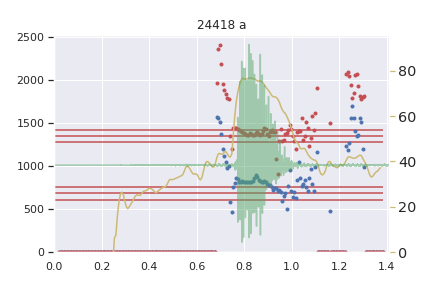
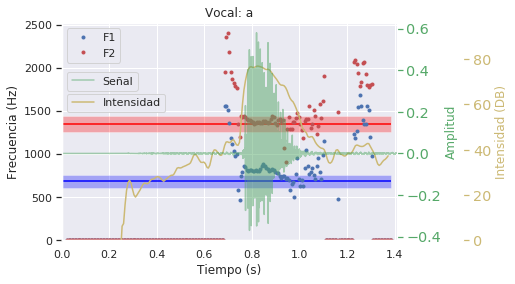
more results

diff --git a/chapters/04_segmentacion.tex b/chapters/04_segmentacion.tex
@@ -53,14 +53,21 @@ Para la evaluación de de este modelo se usa el indicador WER, del inglés Word 
     WER = \frac{S + E + I}{N}
 \end{equation}
 
+Calculando el WER para la anotación ingénua se obtiene el siguiente resultado
+
+
+\begin{equation}
+    WER_{ingenuo} = 89.58
+\end{equation}
 \section{Alineación basada en duración de fonemas}
 
-\textcolor{red}{CORREGIR}
-
-El problema con esta aproximación consisten en que las pausas no necesariamente corresponden siempre a un símbolo de puntuación, pues en caso de oraciones largas, el locutor debe respirar, y en oraciones muy cortas, el locutor omite la pausa para dar continuidad a la lectura.
+El problema con la alineación ingénua consiste en que las pausas no necesariamente corresponden siempre a un símbolo de puntuación, pues en caso de oraciones largas, el locutor debe respirar, y en oraciones muy cortas, el locutor omite la pausa para dar continuidad a la lectura.
 
 Resaltando que existe igualmente un orden secuencial entre ambos segmentos, la aproximación basada en la duración de fonemas utiliza la duración promedio de fonemas extraída del corpus fonético de experimentación y reportada en la tabla \ref{tab:duracion_promedio_fonemas}. Con esta información y transformando las letras de cada token a su correspondiente fonema, se obtiene una duración estimada de cada token, la cual puede ser usada para alinear con mayor precisión.
 
+\begin{equation}
+    WER_{duracion fonemas} = ??
+\end{equation}
 
 \input{tablas/04_02_duracion_promedio_fonemas}
 
@@ -88,11 +95,15 @@ También se realizó una observación de las vocales calculando sus formantes ba
 
 \input{tablas/04_04_formantes_observados}
 
-A partir de esta información se realizaron experimentos buscando la precisión en la identificación de las vocales. Para ello se tomó la norma L1 \cite{manhatattan_distance} de los dos primeros formantes, definiendo rango de aceptación, entre los 50Hz y 500Hz; y utilizando la desviación estándar de cada vocal como rango de aceptación. Adicionalmente a esto, se entrenó un algoritmo de agrupación no supervizado, K-means, inicializando los centroides en los formantes observados en el corpus de experimentación fonética. Los resultados se reportan en la tabla \ref{tab:resultados_vocales}
+A partir de esta información de la tabla \ref{tab:formantes_observador} se realizaron experimentos buscando la precisión en la identificación de las vocales. Para ello se tomó la norma L1 \cite{manhatattan_distance} de los dos primeros formantes, definiendo rango de aceptación, entre los 50Hz y 500Hz; y utilizando la desviación estándar de cada vocal como rango de aceptación. Adicionalmente a esto, se entrenó un algoritmo de agrupación no supervizado, K-means, inicializando los centroides en los formantes observados en el corpus de experimentación fonética.
+
+Estos experimentos se pusieron a prueba en todo el corpus de experimentación fonética, de donde se extrajeron los segmentos correspondientes a vocales y se evaluó la precisión de cada aproximación.
+
+Los resultados se reportan en la tabla \ref{tab:resultados_vocales}.
 
 \input{tablas/04_05_segmentación_vocalica}
 
-Para entender los bajos resultados presentados por la aproximación basada en los formantes observados y su desviación (55.73\% de precisión), se realizó un análisis visual sobre grabaciones con las vocales que se extrajeron del Open Speech Corpus. Se graficó simultaneamente la onda, los formantes F1 y F2 donde la intensidad superaba los 60 decibeles, es decir, $I > 60 dB$, y los formantes F1 y F2 promedio y sus desviaciones observados en el corpus. Las figuras \ref{img:formantes_a} y \ref{img:formantes_e}  muestran un ejemplo de dicho análisis. Los puntos indican los formantes calculados, en rojo F2 y en azúl F1, en verde la señal, en amarillo la intensidad y en rojo los valores observados para los formantes esperados y su desvuación.
+Para entender los bajos resultados presentados por la aproximación basada en los formantes observados y su desviación (50.36\% de precisión), se realizó un análisis visual sobre grabaciones con las vocales que se extrajeron del Open Speech Corpus. Se graficó simultaneamente la onda, los formantes F1 y F2 donde la intensidad superaba los 60 decibeles, es decir, $I > 60 dB$, y los formantes F1 y F2 promedio y sus desviaciones observados en el corpus. Las figuras \ref{img:formantes_a}, \ref{img:formantes_e}, \ref{img:formantes_i}, \ref{img:formantes_o} y \ref{img:formantes_u} muestran un ejemplo de dicho análisis. Los puntos indican los formantes calculados, F1 en azul y F2 en rojo, las líneas azul y roja representan los valores promedios para los formantes 1 y 2 respectivamente, con una franja del mismo color y en leve transparencia representando los rangos aceptados para cada formante considerando la desviación estándar, en verde la señal, en amarillo la intensidad.
 
 % (Y explicar las lineas rojas, amarilla, verde. Recomiendo que los formantes observados sean graficados con la desviaci\'on st\'andar en transparencia. Tambi\'en, los dos formantes observados deber\'ian tener color distinto entre ellos y posiblemente en la misma escala de los calculados.)
 %\ref{img:formantes_a} y e en la figura \ref{img:formantes_e}
@@ -113,8 +124,44 @@ Para entender los bajos resultados presentados por la aproximación basada en lo
 \includegraphics[width=\textwidth]{imagenes/04_02_e.png}
 \end{figure}
 
+\begin{figure}[H]
+\caption{Formantes de vocal I}
+\label{img:formantes_i}
+\includegraphics[width=\textwidth]{imagenes/04_02_i.png}
+\end{figure}
+
+\begin{figure}[H]
+\caption{Formantes de vocal O}
+\label{img:formantes_o}
+\includegraphics[width=\textwidth]{imagenes/04_02_o.png}
+\end{figure}
+
+\begin{figure}[H]
+\caption{Formantes de vocal U}
+\label{img:formantes_u}
+\includegraphics[width=\textwidth]{imagenes/04_02_u.png}
+\end{figure}
+
 % Esto debería estar arriba.
 % En ambas figuras se muestra en verde la onda, en azul el formante 1 en rojo el formante dos, en amarillo la intensidad cuyo valor se encuentra en el eje derecho y en rojo y azul claro los rangos esperados siendo la línea centra el formante observado promedio y las lineas adyacentes los valores de sumar y restar la desviación estándar.
 
-En la figura \ref{img:formantes_a} se observa que F2 representado por los puntos rojos está en los rangos esperados y que el F1 está cerca de los rangos esperados. En la figura \ref{img:formantes_e} se aprecia sobre la gráfica del a señal, que hay ruido de fondo, pues en los segmentos iniciales y los valores de amplitud se alejan del cero. Para esta grabación F1 se encuentra en los rangos de aceptación, pero F2 se aleja significativamente \cite{Abdel-Hamid2012}.
+En las gráficas se observa que en los rangos donde hay mas energía, los formantes se estabilizan cerca de ciertos valores, sin embargo no siempre el valor de estabilización corresponde a los rangos cercanos al formante promedio más o menos su desviación estándar.
 
+Considerando que en los valores de los formantes y su rango de aceptación no genera los resultados esperados, se realizan experimentos con árboles de decisión.
+
+Para estos experimentos, se tomaron los mismos valores de los formantes y la intensidad usando también valores de los formantes 3, 4 y 5, que enriquecen la información acústica extraída de las grabaciones.
+
+Los conjuntos de entrenamiento y pruebas se extrajeron del corpus de experimentación fonética, realizando una partición de 90\% para entrenamiento y 10\% para pruebas. Se realizó una segmentación por ventanas de tiempo de 60ms y se contó la cantidad de ventanas por cada fonema y sobre estos valores se realizó la partición.
+
+Como los árboles de decisión son sensibles a la cantidad de grupos a clasificar, se realizaron experimentos transformando la anotación fonética de cada grabación. Las transformaciones usadas se muestran en la tabla \ref{tab:transformacion_fonetica_arboles}
+
+\input{tablas/04_06_transformacion_fonetica}
+
+Los resultados a los experimento se muestran a continuación en la tabla \ref{tab:resultados_arboles}
+
+\input{tablas/04_07_resultados_arboles}
+
+
+\begin{equation}
+    WER_{informacion acustica} = ??
+\end{equation}

diff --git a/tablas/04_06_transformacion_fonetica.tex b/tablas/04_06_transformacion_fonetica.tex
@@ -1,0 +1,32 @@
+\begin{table}[H]
+\centering
+\caption{Distribución fonética}
+\label{tab:transformacion_fonetica_arboles}
+\begin{tabular}{|l|l|l|l|l|}
+\hline
+\textbf{Fonema} & \multicolumn{1}{|p{2.5cm}|}{\textbf{Vocales / No Vocales}} &  \multicolumn{1}{|p{3cm}|}{\textbf{Consonantes sonoras / No sonoras}} &  \multicolumn{1}{|p{2.4cm}|}{\textbf{Tipos de articulación}} & \multicolumn{1}{|p{2.4cm}|}{\textbf{Vocales Extremas}} \\\hline
+a   & a         & a          & a           & a         \\ \hline
+o   & o         & o          & o           & no\_vocal \\ \hline
+e   & e         & e          & e           & no\_vocal \\ \hline
+n   & no\_vocal & sonora     & nasal       & no\_vocal \\ \hline
+i   & i         & i          & i           & i         \\ \hline
+l   & no\_vocal & sonora     & aproximante & no\_vocal \\ \hline
+s   & no\_vocal & sonora     & fricativa   & no\_vocal \\ \hline
+t   & no\_vocal & no\_sonora & plosiva     & no\_vocal \\ \hline
+d   & no\_vocal & no\_sonora & plosiva     & no\_vocal \\ \hline
+R   & no\_vocal & sonora     & vibrante    & no\_vocal \\ \hline
+b   & no\_vocal & no\_sonora & plosiva     & no\_vocal \\ \hline
+r   & no\_vocal & no\_sonora & plosiva     & no\_vocal \\ \hline
+p   & no\_vocal & no\_sonora & plosiva     & no\_vocal \\ \hline
+j   & no\_vocal & sonora     & aproximante & no\_vocal \\ \hline
+u   & u         & u          & u           & u         \\ \hline
+m   & no\_vocal & sonora     & nasal       & no\_vocal \\ \hline
+k   & no\_vocal & no\_sonora & plosiva     & no\_vocal \\ \hline
+g   & no\_vocal & sonora     & plosiva     & no\_vocal \\ \hline
+f   & no\_vocal & sonora     & fricativa   & no\_vocal \\ \hline
+y   & no\_vocal & sonora     & fricativa   & no\_vocal \\ \hline
+C   & no\_vocal & sonora     & fricativa   & no\_vocal \\ \hline
+N   & no\_vocal & sonora     & nasal       & no\_vocal \\ \hline
+S   & no\_vocal & sonora     & fricativa   & no\_vocal \\ \hline
+\end{tabular}
+\end{table}

diff --git a/tablas/04_05_segmentación_vocalica.tex b/tablas/04_05_segmentación_vocalica.tex
@@ -2,16 +2,17 @@
 \centering
 \caption{Precisión identificación vocálica}
 \label{tab:resultados_vocales}
-\begin{tabular}{|l|l|l|}
-Aproximación & Precisión \\ \hline
-Teórica mas 50 Hz & 55.73 \\ \hline
-Teórica mas 100 Hz & 78.13 \\ \hline
-Teórica mas 200 Hz & 74.90 \\ \hline
-Teórica mas 300 Hz & 53.84 \\ \hline
-Teórica mas 400 Hz & 45.33 \\ \hline
-Teórica mas 500 Hz & 39.63 \\ \hline
-Observados mas desviación & 55.73 \\ \hline
-K-means mas 100 & 59.74 \\ \hline
+\begin{tabular}{|l|l|l|l|l|}
+\hline
+Aproximación              & Precisión & Recall & F1 Score \\ \hline
+Teórica mas 50 Hz         & 44.36     & 45.51  & 44.93    \\ \hline
+Teórica mas 100 Hz        & 46.29     & 47.49  & 46.88    \\ \hline
+Teórica mas 200 Hz        & \textbf{50.36}     & 51.66  & 51.00    \\ \hline
+Teórica mas 300 Hz        & 47.71     & 48.95  & 48.32    \\ \hline
+Teórica mas 400 Hz        & 40.75     & 41.80  & 41.27    \\ \hline
+Teórica mas 500 Hz        & 36.81     & 37.76  & 37.28    \\ \hline
+Observados mas desviación & 41.76     & 42.84  & 42.29    \\ \hline
+K-means mas 200           & 45.86     & 47.05  & 4645     \\ \hline
 \end{tabular}
 
 \end{table}

diff --git a/tablas/03_06_mexbet.tex b/tablas/03_06_mexbet.tex
@@ -3,7 +3,8 @@
 \caption{Mexbet}
 \label{tab:mexbet}
 \begin{tabular}{|l|l|l|l|l|l|l|}
-\textbf{Consonantes}         & \textbf{Labiales}     & \textbf{Labiodentales} & \textbf{Dentales}     & \textbf{Alveolares}    & \textbf{Palatales}    & \textbf{Alveolares}  \\ \hline
+\hline
+\textbf{Consonantes}         & \textbf{Labial}     & \textbf{Labio dental} & \textbf{Dental}     & \textbf{Alveolar}    & \textbf{Palatal}    & \textbf{Velar}  \\ \hline
 Oclusivos Sordos             & p (p)&       & t (t)&       &       & k (k)\\ \hline
 Oclusivos Sonoros            & b (b)&       & d (d)&       &       & g (g)\\ \hline
 Africado Sordo               &      &       &      &       & tS (t\textipa{S}) &     \\ \hline

diff --git a/tablas/04_07_resultados_arboles.tex b/tablas/04_07_resultados_arboles.tex
@@ -1,0 +1,16 @@
+\begin{table}[H]
+\centering
+\caption{Distribución fonética}
+\label{tab:resultados_arboles}
+\begin{tabular}{|l|l|l|l|}
+\hline
+Aproximación                     & Precisión & Recall & F1 Score \\ \hline
+Todos los fonemas                & 42.34     & 42.34  & 42.34    \\ \hline
+Tipos de articulación            & 50.76     & 52.30  & 52.30    \\ \hline
+Consonantes sonoras / No sonoras & 62.86     & 62.86  & 62.86    \\ \hline
+Vocales \ No Vocales             & 69.62     & 69.62  & 69.62    \\ \hline
+Vocales extremas                 & 81.21     & 81.21  & 81.21    \\ \hline
+
+
+\end{tabular}
+\end{table}

diff --git a/tablas/04_01_resultados_segmentacion_silencio.tex b/tablas/04_01_resultados_segmentacion_silencio.tex
@@ -4,10 +4,11 @@
 % \caption{Speech English Corpus}
 \label{tab:resultados_segmentacion_silencios}
 \begin{tabular}{|l|l|}
-\textbf{Unbral} & \textbf{Precisión} \\ \hline
-Fijo 30\%  & 57.01\% \\  \hline
-Fija 15\% & 83.26\% \\  \hline
-Fija 5\% & 69.05\% \\  \hline
-Dinámico  & 74.53\% \\  \hline
+\hline
+\textbf{Umbral} & \textbf{Precisión}  \\ \hline
+Fijo 30\%       & 57.01\%             \\  \hline
+Fija 15\%       & 83.26\%             \\  \hline
+Fija 5\%        & 69.05\%             \\  \hline
+Dinámico        & 74.53\%             \\  \hline
 \end{tabular}
 \end{table}

diff --git a/tablas/04_02_duracion_promedio_fonemas.tex b/tablas/04_02_duracion_promedio_fonemas.tex
@@ -3,6 +3,7 @@
 \caption{Distribución fonética}
 \label{tab:duracion_promedio_fonemas}
 \begin{tabular}{|l|l|l|}
+\hline
 \textbf{Fonema} &\multicolumn{1}{|p{2.2cm}|}{\textbf{Duración promedio}} & \multicolumn{1}{|p{2.2cm}|}{\textbf{Desviación estándar}} \\ \hline
 sil & 0.6619 & 0.3700 \\ \hline
 a   & 0.1421 & 0.0566 \\ \hline

diff --git a/tablas/04_04_formantes_observados.tex b/tablas/04_04_formantes_observados.tex
@@ -3,6 +3,7 @@
 \caption{Formantes teóricos para vocales del español}
 \label{tab:formantes_observador}
 \begin{tabular}{|l|l|l|l|l|}
+\hline
 \textbf{Vocal} & \textbf{f1} & \textbf{f2} & \textbf{std f1} & \textbf{std f2} \\ \hline
 a   & 682.84 & 1347.66 & 73.77 & 93.04 \\ \hline
 e   & 494.84 & 1619.97 & 55.49 & 132.84\\ \hline

diff --git a/tablas/04_03_formantes_vocales_teoricas.tex b/tablas/04_03_formantes_vocales_teoricas.tex
@@ -3,6 +3,7 @@
 \caption{Formantes teóricos para vocales del español \cite{Bradlow1995}}
 \label{tab:formantes_teoricos}
 \begin{tabular}{|l|l|l|l|l|}
+\hline
 \textbf{Vocal} & \textbf{f1} & \textbf{f2} & \textbf{std f1} & \textbf{std f2} \\ \hline
 a   & 638 & 36 & 1353 & 84 \\ \hline
 e   & 458 & 42 & 1800 & 131 \\ \hline

diff --git a/tablas/03_01_anotacion_fonetica.tex b/tablas/03_01_anotacion_fonetica.tex
@@ -3,6 +3,7 @@
 \caption{Anotación Fonética}
 \label{tab:anotacion_fonetica}
 \begin{tabular}{|l|l|l|}
+\hline
 \textbf{Simbolo} & \textbf{Letra} & \textbf{Representación} \\ \hline
 sil              & & Silencio                               \\ \hline
 a                & a & vocal open central                   \\ \hline

diff --git a/tablas/03_02_distribucion_fonemas.tex b/tablas/03_02_distribucion_fonemas.tex
@@ -3,6 +3,7 @@
 \caption{Distribución fonética}
 \label{tab:distribucion_fonetica}
 \begin{tabular}{|l|l|}
+\hline
 \textbf{Fonema} & \textbf{Ocurrencias} \\ \hline
 sil & 173 \\ \hline
 a   & 91  \\ \hline
